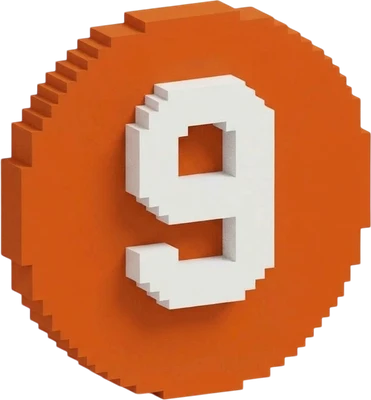
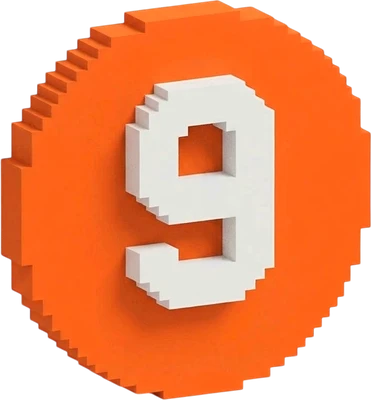
Podcast: coin in the brand orange; hero copy lines up with the frame
The coin's orange is lifted to #ff6319 (shading kept, the white 9 left
alone). In one column the name, copy and buttons take the frame's drawn
width, reported up from the bezel, so on a tablet they sit under it
instead of spanning the page.

diff --git a/page/components/podcast/Hero.vue b/page/components/podcast/Hero.vue
@@ -1,11 +1,11 @@
 <template>
   <header class="pod-hero">
-    <div class="pod-shell pod-hero-inner">
+    <div class="pod-shell pod-hero-inner" :style="sceneWidth ? { '--pod-scene-w': `${sceneWidth}px` } : null">
       <!-- The scene and the name are grouped for a phone, where together they
         are the first screen. Side by side the group dissolves (display:
         contents) and the name sits over the rest of the copy, beside the scene. -->
       <div class="pod-hero-top">
-        <PodcastNinthTrain class="pod-hero-art" :scene="hero.scene" />
+        <PodcastNinthTrain class="pod-hero-art" :scene="hero.scene" @scale="sceneWidth = 488 * $event" />
         <div class="pod-hero-lead">
           <!-- Optional, like the hosts band's heading: the hero reads fine
             without a label when the headline already says who the show is for. -->
@@ -70,6 +70,7 @@
 </template>
 
 <script setup>
+import { ref } from "vue";
 import nineCoin from "~/assets/podcast-nine-coin.webp";
 
 defineProps({
@@ -81,6 +82,10 @@ defineProps({
   // faces and names only. They stay defined in one place in podcast.json.
   hosts: { type: Array, default: () => [] }
 });
+
+// The frame's drawn width (its native 488px times the scale it's fitted
+// at): in one column the name, copy and buttons match it.
+const sceneWidth = ref(0);
 </script>
 
 <script>
@@ -239,10 +244,16 @@ export default {
     min-height: 8rem;
   }
 
-  /* The text uses the column's full measure, like the scene above it. */
+  /* The name, copy and buttons line up with the frame above them: the
+     frame's drawn width, centered, once it has reported it (the full
+     column until then). */
   .pod-hero-lead,
-  .pod-hero-copy {
+  .pod-hero-copy,
+  .pod-hero-actions {
     width: 100%;
+    max-width: var(--pod-scene-w, 100%);
+    margin-inline: auto;
+    box-sizing: border-box;
   }
 
   /* .pod-hero-lead's own align-self: end is a *grid* row-alignment rule
@@ -260,11 +271,12 @@ export default {
   }
 
   /* Buttons go to the right on phones and tablets: where a thumb reaches
-     them, and clear of the language cat at the bottom-left. */
-  /* Listen last in the row, so it lands at the right edge under the thumb. */
+     them, and clear of the language cat at the bottom-left. Listen last in
+     the row, so it lands at the right edge under the thumb (row-reverse:
+     flex-start is the right). */
   .pod-hero-actions {
-    align-self: flex-end;
     flex-direction: row-reverse;
+    justify-content: flex-start;
     flex-wrap: nowrap;
     gap: 0.5rem;
     margin-top: 0;

diff --git a/page/components/podcast/NinthTrain.vue b/page/components/podcast/NinthTrain.vue
@@ -229,6 +229,9 @@ import { onBeforeUnmount, onMounted, ref } from "vue";
 defineProps({
   scene: { type: Object, required: true }
 });
+
+// Passed on up, so the hero can size its copy to the frame's drawn width.
+const emit = defineEmits(["scale"]);
 import catfightStorefront from "~/assets/ninth-hero/catfight-storefront.webp";
 import blockShops from "~/assets/ninth-hero/block-shops.webp";
 import ashly from "~/assets/ninth-hero/ashly.webp";
@@ -485,6 +488,7 @@ let scale = 1;
 // PodcastBezel reports it whenever it refits the frame to its box.
 const onScale = (s) => {
   scale = s;
+  emit("scale", s);
 };
 
 onMounted(() => {
